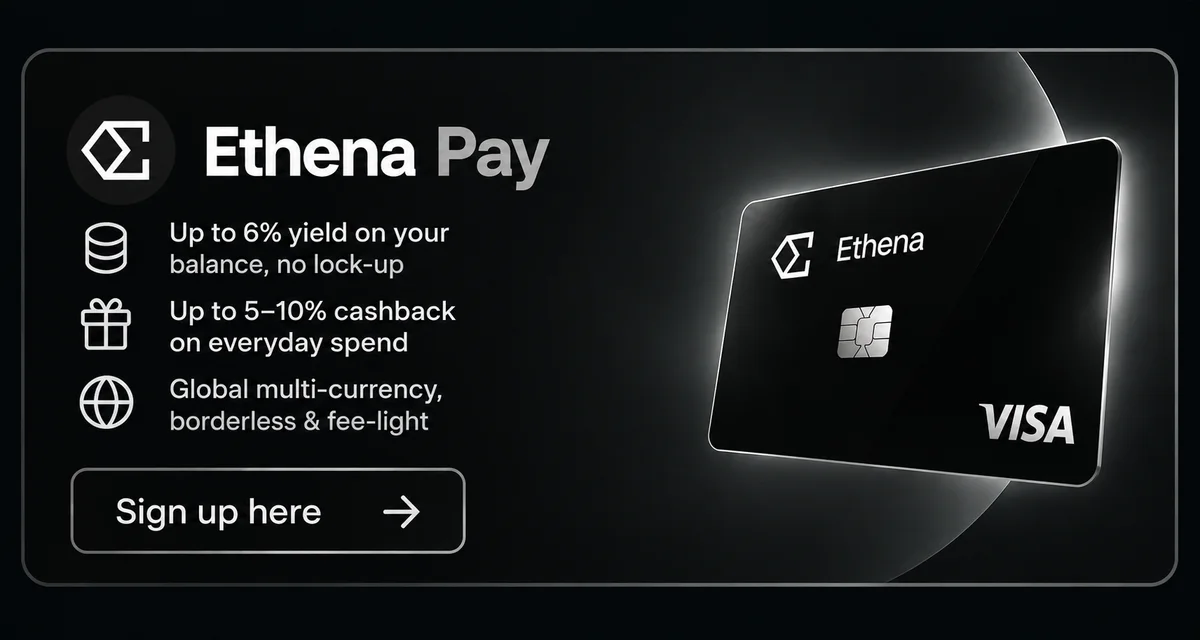
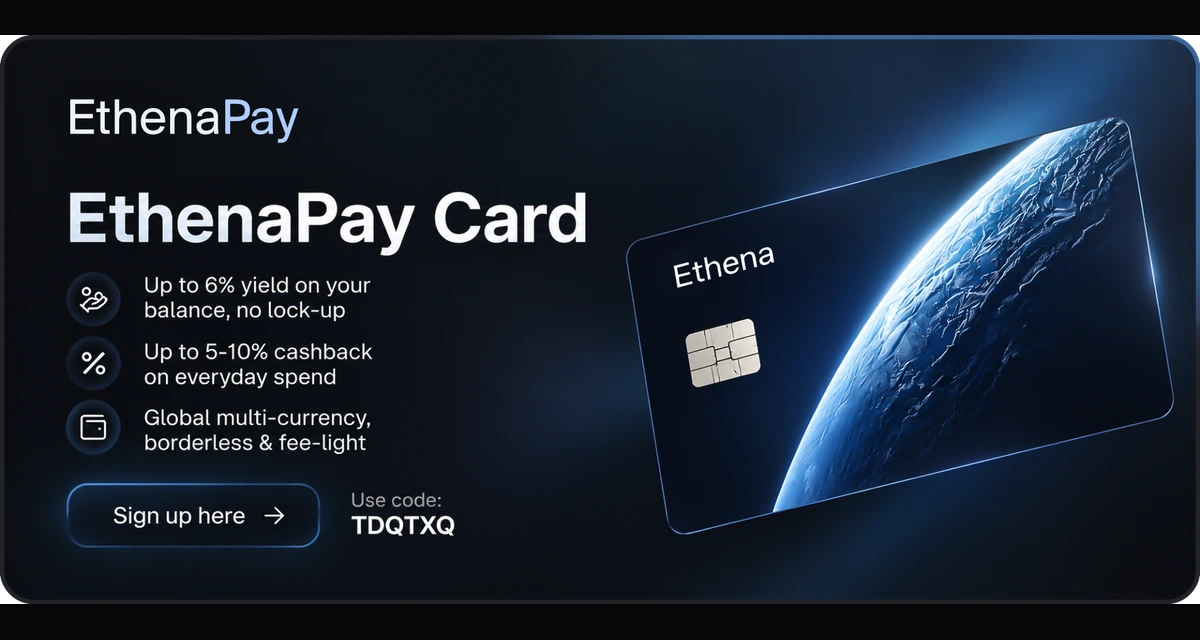
Add Ethena Pay invite dialog (#3694)
* feat: add Ethena Pay invite dialog

* chore: update crypto card banners

diff --git a/src/containers/CryptoCards/PromoBanners.tsx b/src/containers/CryptoCards/PromoBanners.tsx
@@ -1,5 +1,13 @@
+import * as Ariakit from '@ariakit/react'
 import Image from 'next/image'
+import { Button } from '~/ui/Button'
 import { Card } from '~/ui/Card'
+import { CopyHelper } from '~/ui/Copy'
+import { Dialog, DialogBody, DialogFooter, DialogHeader } from '~/ui/Dialog'
+import { Icon } from '~/ui/Icon'
+
+const ETHENA_PAY_INVITE_CODE = 'TDQTXQ'
+const ETHENA_PAY_DOWNLOAD_URL = 'https://pay.ethena.fi/download'
 
 const CARD_PROMOS = [
 	{
@@ -33,48 +41,98 @@ const CARD_PROMOS = [
 
 export function PromoBanners() {
 	return (
-		<section
-			aria-label="Featured card promotions"
-			className="flex scrollbar-none touch-pan-x snap-x snap-mandatory gap-2 overflow-x-auto overscroll-x-contain pb-1 [-webkit-overflow-scrolling:touch] xl:grid xl:snap-none xl:grid-cols-4 xl:overflow-visible xl:pb-0"
-		>
-			{CARD_PROMOS.map((promo, index) => {
-				const image = (
-					<Image
-						src={promo.src}
-						alt={promo.alt}
-						width={1200}
-						height={640}
-						loading={index === 0 ? 'eager' : 'lazy'}
-						sizes="(min-width: 1280px) 25vw, (min-width: 640px) 50vw, 83vw"
-						className="h-auto w-full"
-					/>
-				)
-				return (
-					<Card
-						as="figure"
-						key={promo.id}
-						padding="none"
-						className="w-10/12 shrink-0 snap-start overflow-hidden sm:w-[calc(50%_-_0.25rem)] xl:w-auto"
-						data-umami-event="crypto-cards-banner-click"
-						data-umami-event-banner={promo.id}
-						data-umami-event-placement="featured-promotions"
+		<Ariakit.DialogProvider>
+			<section
+				aria-label="Featured card promotions"
+				className="flex scrollbar-none touch-pan-x snap-x snap-mandatory gap-2 overflow-x-auto overscroll-x-contain pb-1 [-webkit-overflow-scrolling:touch] xl:grid xl:snap-none xl:grid-cols-4 xl:overflow-visible xl:pb-0"
+			>
+				{CARD_PROMOS.map((promo, index) => {
+					const image = (
+						<Image
+							src={promo.src}
+							alt={promo.alt}
+							width={1200}
+							height={640}
+							loading={index === 0 ? 'eager' : 'lazy'}
+							sizes="(min-width: 1280px) 25vw, (min-width: 640px) 50vw, 83vw"
+							className="h-auto w-full"
+						/>
+					)
+					return (
+						<Card
+							as="figure"
+							key={promo.id}
+							padding="none"
+							className="w-10/12 shrink-0 snap-start overflow-hidden sm:w-[calc(50%_-_0.25rem)] xl:w-auto"
+							data-umami-event="crypto-cards-banner-click"
+							data-umami-event-banner={promo.id}
+							data-umami-event-placement="featured-promotions"
+						>
+							{promo.id === 'ethena-pay' ? (
+								<Ariakit.DialogDisclosure
+									render={<button type="button" className="block w-full cursor-pointer focus-visible:focus-ring" />}
+									aria-label="Show Ethena Pay invite code"
+								>
+									{image}
+								</Ariakit.DialogDisclosure>
+							) : promo.href ? (
+								<a
+									href={promo.href}
+									target="_blank"
+									rel="noopener noreferrer sponsored"
+									aria-label={`Open ${promo.name} offer`}
+									className="block"
+								>
+									{image}
+								</a>
+							) : (
+								image
+							)}
+						</Card>
+					)
+				})}
+			</section>
+			<Dialog size="sm" portal unmountOnHide backdrop={<div className="fixed inset-0 z-50 bg-screen-dim opacity-80" />}>
+				<DialogHeader title="Get an Ethena Pay invite code" />
+				<DialogBody>
+					<p className="body-md text-secondary">Copy this code, then enter it when joining Ethena Pay.</p>
+					<div className="flex items-center justify-between gap-4 rounded-lg border border-subtle bg-surface-elevated-1 p-4">
+						<output className="min-w-0 mono-xl tracking-widest break-all text-primary" aria-label="Invite code">
+							{ETHENA_PAY_INVITE_CODE}
+						</output>
+						<CopyHelper
+							toCopy={ETHENA_PAY_INVITE_CODE}
+							size={20}
+							aria-label="Copy Ethena Pay invite code"
+							data-umami-event="crypto-cards-invite-code-copy"
+							data-umami-event-card="ethena-pay"
+						/>
+					</div>
+					<div>
+						<h3 className="label-md text-primary">How to use your code</h3>
+						<ol className="mt-2 flex list-decimal flex-col gap-2 pl-5 body-sm text-secondary">
+							<li>Download and open the Ethena Pay app.</li>
+							<li>Start signing up and enter the invite code when prompted.</li>
+							<li>Complete the remaining account setup in the app.</li>
+						</ol>
+					</div>
+				</DialogBody>
+				<DialogFooter>
+					<Button
+						as="a"
+						href={ETHENA_PAY_DOWNLOAD_URL}
+						target="_blank"
+						rel="noopener noreferrer sponsored"
+						variant="primary"
+						size="md"
+						data-umami-event="crypto-cards-invite-app-open"
+						data-umami-event-card="ethena-pay"
 					>
-						{promo.href ? (
-							<a
-								href={promo.href}
-								target="_blank"
-								rel="noopener noreferrer sponsored"
-								aria-label={`Open ${promo.name} offer`}
-								className="block"
-							>
-								{image}
-							</a>
-						) : (
-							image
-						)}
-					</Card>
-				)
-			})}
-		</section>
+						Download Ethena Pay
+						<Icon name="arrow-up-right" className="size-3.5" aria-hidden="true" />
+					</Button>
+				</DialogFooter>
+			</Dialog>
+		</Ariakit.DialogProvider>
 	)
 }

diff --git a/src/containers/CryptoCards/__tests__/PromoBanners.test.tsx b/src/containers/CryptoCards/__tests__/PromoBanners.test.tsx
@@ -1,0 +1,45 @@
+// @vitest-environment happy-dom
+
+import { act } from 'react'
+import { createRoot, type Root } from 'react-dom/client'
+import { afterEach, beforeEach, expect, test } from 'vitest'
+import { waitForUi } from '~/utils/testing/waitForUi'
+import { PromoBanners } from '../PromoBanners'
+
+let container: HTMLDivElement
+let root: Root
+
+beforeEach(() => {
+	container = document.createElement('div')
+	document.body.append(container)
+	root = createRoot(container)
+})
+
+afterEach(async () => {
+	await act(async () => root.unmount())
+	container.remove()
+})
+
+test('the Ethena Pay banner reveals the invite code, signup guide, and app destination', async () => {
+	await act(async () => root.render(<PromoBanners />))
+	expect(document.body.textContent).not.toContain('TDQTXQ')
+
+	await act(async () =>
+		document.querySelector<HTMLButtonElement>('[aria-label="Show Ethena Pay invite code"]')!.click()
+	)
+	await waitForUi(() => expect(document.querySelector('[role="dialog"]')).not.toBeNull())
+
+	const dialog = document.querySelector<HTMLElement>('[role="dialog"]')!
+	expect(dialog.querySelector('h2')?.textContent).toBe('Get an Ethena Pay invite code')
+	expect(dialog.textContent).toContain('Copy this code, then enter it when joining Ethena Pay.')
+	expect(dialog.textContent).toContain('TDQTXQ')
+	expect(Array.from(dialog.querySelectorAll('li')).map((item) => item.textContent)).toEqual([
+		'Download and open the Ethena Pay app.',
+		'Start signing up and enter the invite code when prompted.',
+		'Complete the remaining account setup in the app.'
+	])
+	expect(dialog.querySelector<HTMLAnchorElement>('a')?.href).toBe('https://pay.ethena.fi/download')
+
+	await act(async () => dialog.querySelector<HTMLButtonElement>('[aria-label="Copy Ethena Pay invite code"]')!.click())
+	expect(await navigator.clipboard.readText()).toBe('TDQTXQ')
+})
